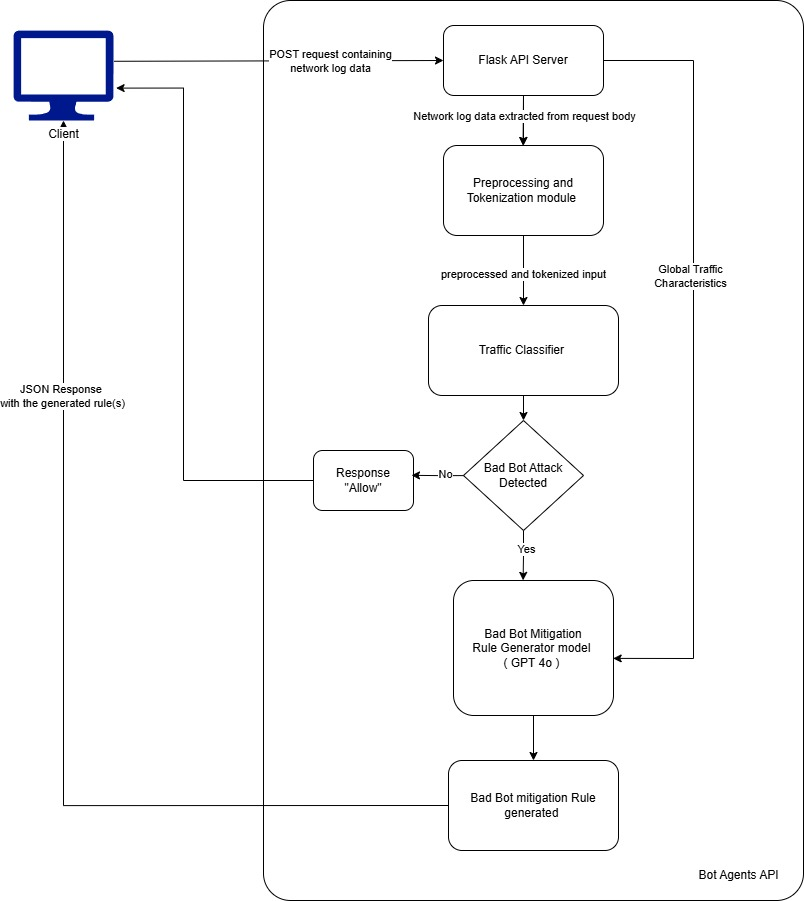
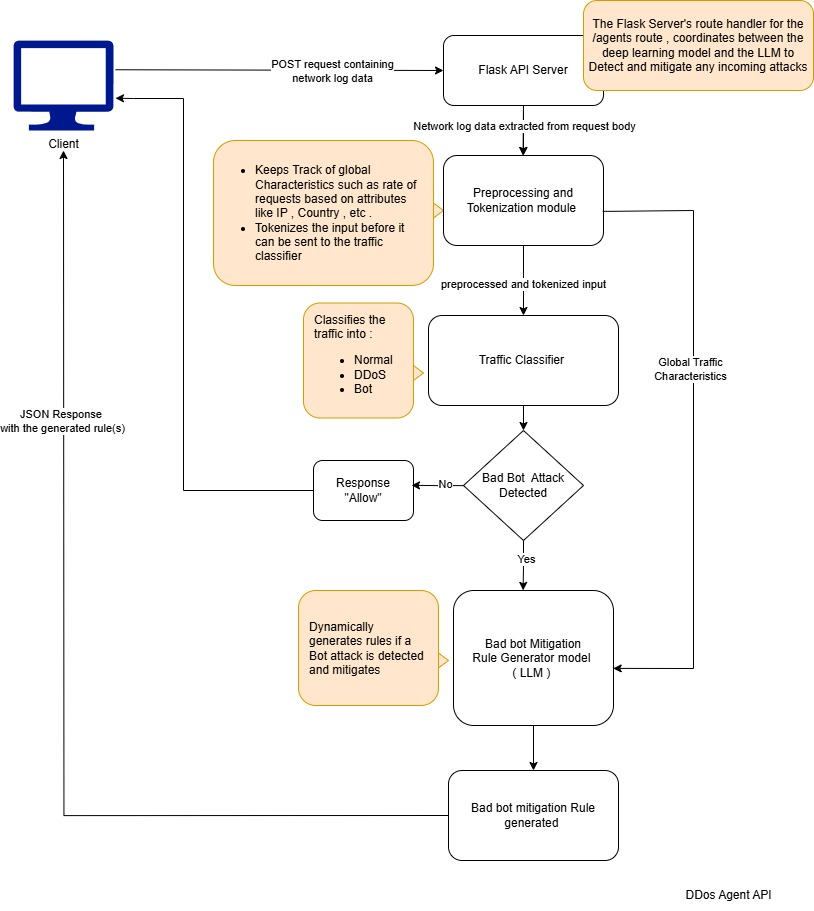
saving

diff --git a/DDoS and Bot LLD/readme.md b/DDoS and Bot LLD/readme.md
@@ -15,68 +15,17 @@ Each module processes network logs, uses a lightweight finetuned deep learning m
 
 The **DDoS Sentry** module processes incoming network log data and determines whether a **DDoS attack** is occurring. If an attack is detected, it uses an LLM rule generator to produce mitigation strategies.
 
-#### 🖼 Flowchart
+#### 🖼 LLD
 
 <img src="./DDoS Sentry.jpg" width="600" />
 
-#### ⚙ Flow Explanation
 
-1. **Client sends POST request**  
-   - A network log dataset is sent via a POST request to the DDoS Agent API.
-
-2. **Flask API Server receives the request**  
-   - The API extracts network log data from the request body.
-
-3. **Preprocessing and Tokenization module**  
-   - The network logs are cleaned and tokenized into a structured format.
-   - Global traffic characteristics may also be derived.
-
-4. **Traffic Classifier**  
-   - A fine-tuned Deep leaning model analyzes the logs and classifies the traffic with low latency (880ms).
-
-5. **DDoS Attack Detected?**  
-   - If the classifier detects a DDoS attack, proceed to the next step.
-   - Otherwise, respond with `"Allow"`.
-
-6. **DDoS Mitigation Rule Generator**  
-   - If an attack is detected, an LLM is used to generate mitigation rules.
-
-7. **Return JSON Response**  
-   - A JSON response is returned to the client, containing the generated rule(s).
-
----
 
 ### 2. 🤖 Bot Sentry
 
 The **Bot Sentry** module is responsible for detecting and mitigating bad bot activity. It follows a very similar architecture to the DDoS Sentry, with bot-specific logic and rule generation.
 
-#### 🖼 Flowchart
+#### 🖼 LLD
 
 <img src="./Bot Sentry.jpg" width="600" />
 
-#### ⚙ Flow Explanation
-
-1. **Client sends POST request**  
-   - A network log dataset is sent via a POST request to the Bot Agents API.
-
-2. **Flask API Server receives the request**  
-   - Network log data is extracted from the request body.
-
-3. **Preprocessing and Tokenization module**  
-   - The logs are cleaned and tokenized.
-   - Global traffic characteristics may also be considered.
-
-4. **Traffic Classifier**  
-   - A finetuned Deep learning model classifies whether the logs indicate bot traffic.
-
-5. **Bad Bot Attack Detected?**  
-   - If no bot activity is detected, return a response: `"Allow"`.
-   - If bot activity is detected, proceed to rule generation.
-
-6. **Bad Bot Mitigation Rule Generator**  
-   - An LLM generates one or more mitigation rules based on the classified log data.
-
-7. **Return JSON Response**  
-   - The generated rules are returned to the client in a structured JSON format.
-
----
